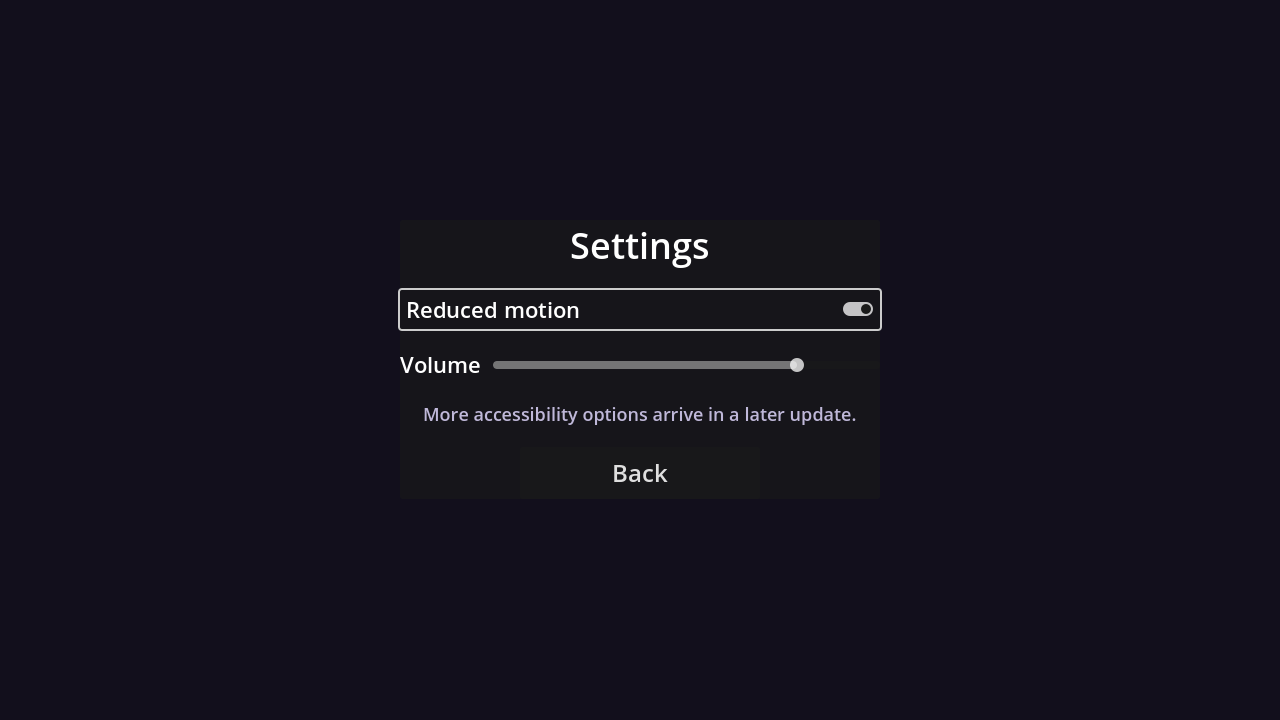
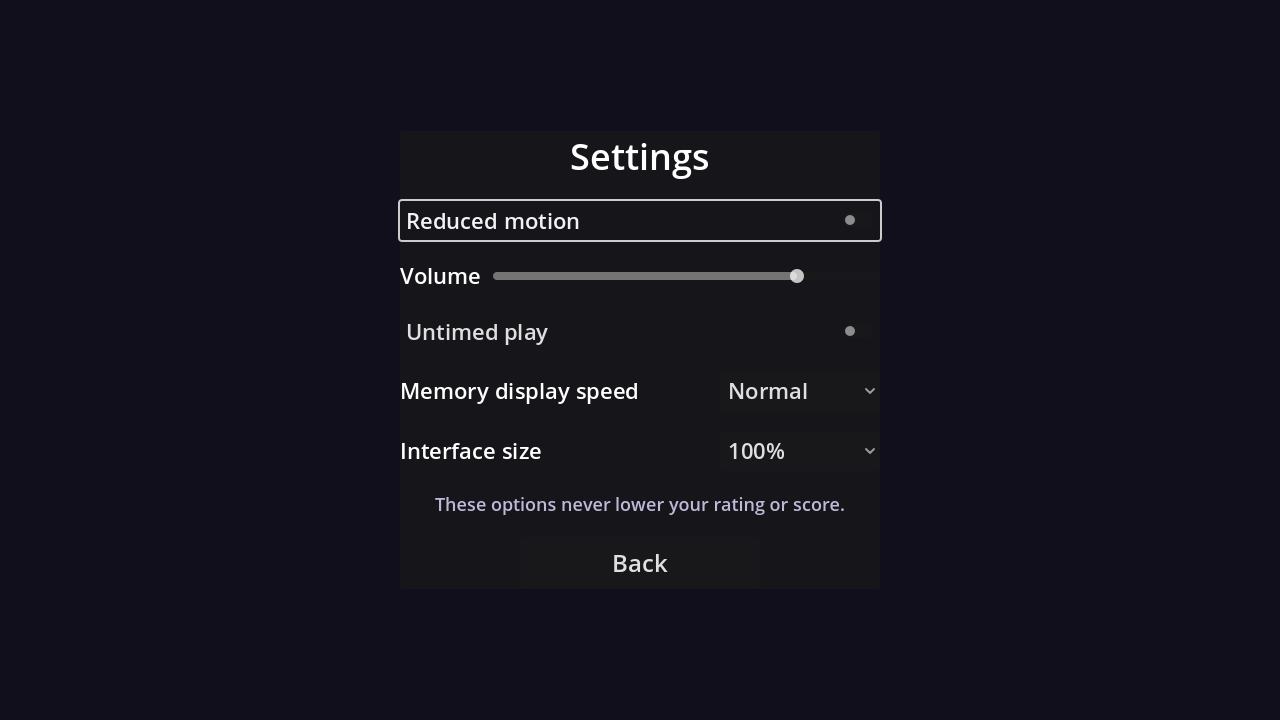
task(8.2): add accessibility timing, motion, scale and input options
Settings gain untimed play, slower memory display (up to 3x) and
interface size (up to 150%); reduced motion also skips room fades. Any
timing accommodation is passed to the puzzle host and flags the attempt
so skill and score ignore timing rather than lowering. Settings are
validated and snapped on load and stay apart from skill state. Adds a
pause action (P / Start) and controller bindings for accept and back.

diff --git a/docs/PROJECT_PHASES_AND_TASKS.md b/docs/PROJECT_PHASES_AND_TASKS.md
@@ -2351,7 +2351,7 @@ One command, `tools/validate.sh`: headless boot, puzzle bank validator, all test
 
 ### Task 8.2: Accessibility: Timer, Motion, Readability and Input Options
 
-**Status:** `[ ]` Not Started
+**Status:** `[x]` Completed
 
 **Purpose**  
 Advance Phase 8 while keeping the game playable, deterministic where required, and narrowly scoped to this task.
@@ -2368,13 +2368,16 @@ Advance Phase 8 while keeping the game playable, deterministic where required, a
 - Confirm the core offline game loop still starts when this task touches runtime code.
 
 **Definition of Done**
-- [ ] Task-specific implementation exists.
-- [ ] Relevant automated/headless validation passes.
-- [ ] No new runtime errors in the affected playable flow.
-- [ ] Documentation and task status are synchronized.
-- [ ] A dedicated `task(8.2): ...` Git commit exists.
-- [ ] The commit is pushed to GitHub and upstream verification succeeds when `origin` is configured.
-- [ ] Scope does not spill into the next task.
+- [x] Task-specific implementation exists.
+- [x] Relevant automated/headless validation passes.
+- [x] No new runtime errors in the affected playable flow.
+- [x] Documentation and task status are synchronized.
+- [x] A dedicated `task(8.2): ...` Git commit exists.
+- [x] The commit is pushed to GitHub and upstream verification succeeds when `origin` is configured.
+- [x] Scope does not spill into the next task.
+
+**Implementation Notes**
+Settings menu adds untimed play, memory display speed (1x/1.5x/2x/3x), interface size (100/125/150%, root content scale) next to reduced motion and volume; reduced motion now also makes room transitions instant. `game/scripts/settings/accessibility.gd` owns allowed values, sanitizing and the puzzle host options; the dungeon passes `timing_scale` and `timing_accommodation_active`, so any timing accommodation neutralizes timing in skill and score instead of lowering them. Settings stay in the profile `settings` section, validated on load and never read by the skill model. Controller: `pause` action (P / Start) and A/B bindings for ui_accept/ui_cancel. Validation: `tools/validate.sh` OK (373 passed; adds tests/unit/test_settings.gd, accommodation-never-lower check in test_performance_event.gd, menu focus/persistence and dungeon-to-host option tests). Note: naming the new test file test_accessibility.gd made Godot report script resources still in use at exit (static test caches unloaded in a different order), so it is test_settings.gd.
 
 ---
 

diff --git a/README.md b/README.md
@@ -80,7 +80,7 @@ Open the next room ← Reward score & XP ← Pick the next puzzle in the target 
     <td align="center"><img src="docs/images/run_summary.png" alt="Run summary"><br><sub><b>Run summary</b>: friendly per-family trends, no labels</sub></td>
   </tr>
   <tr>
-    <td align="center"><img src="docs/images/settings.png" alt="Settings"><br><sub><b>Settings</b>: reduced motion and master volume</sub></td>
+    <td align="center"><img src="docs/images/settings.png" alt="Settings"><br><sub><b>Settings</b>: reduced motion, untimed play, memory speed, interface size, volume</sub></td>
     <td align="center"><sub>All screenshots are captured from the real build with<br><code>tools/capture_screenshots.gd</code></sub></td>
   </tr>
 </table>
@@ -114,7 +114,8 @@ Open the next room ← Reward score & XP ← Pick the next puzzle in the target 
 - **Feedback banners** with symbols (✓ ↻ ✗ ★ ◆); they never reveal answers.
 
 ### ♿ Accessibility and safety
-- **Reduced motion** and **master volume** settings.
+- **Reduced motion**, **untimed play**, **slower memory timing** (up to 3x), **interface size** (up to 150%) and **master volume** settings.
+- Full **keyboard and controller** navigation (D-pad / A / B, Start pauses).
 - **Accessibility-safe timing**: when a timing accommodation is on, slower play never lowers your inferred skill or your score.
 - **No colour-only information**: every symbol is a distinct shape.
 - **Keyboard and controller** navigation from the first frame.

diff --git a/docs/GAME_DESIGN.md b/docs/GAME_DESIGN.md
@@ -102,6 +102,15 @@ Plan for:
 - reduced-motion option,
 - keyboard navigation where possible.
 
+Implemented settings (Settings menu, `game/scripts/settings/accessibility.gd`):
+- **Reduced motion**: no pulses, count-ups or banner motion; room transitions cut instead of fading.
+- **Untimed play**: response time is ignored for skill and score.
+- **Memory display speed**: 1x, 1.5x, 2x or 3x show/conceal time. Puzzle identity and correctness are unchanged.
+- **Interface size**: 100%, 125% or 150% scaling of the whole window content.
+- **Keyboard and controller**: every menu, setting and puzzle is reachable with arrows/D-pad, accept (Enter/Space/A) and back (Escape/B); P or Start pauses.
+
+Any timing accommodation (untimed play or slower memory timing) sets `timing_accommodation_active` on the attempt, so the skill model and scoring neutralize timing instead of reading slower play as lower skill. Settings live in the profile's `settings` section, are validated on load (wrong types and out-of-range values fall back or snap to an offered value), and are never read by the skill model.
+
 ## 10. Adaptive Experience Design
 
 The dungeon should adapt invisibly enough that the player experiences a coherent world rather than a visible difficulty algorithm.

diff --git a/docs/TASKS.md b/docs/TASKS.md
@@ -99,7 +99,7 @@ A completed task should record its commit hash and push status.
 ## Phase 8 — Polish, Accessibility, CI/CD & Release
 
 - [x] **Task 8.1** — Godot Headless Validation Test Suite — Commit: `task(8.1)` — GitHub: `pushed to origin/main`
-- [ ] **Task 8.2** — Accessibility: Timer, Motion, Readability and Input Options — Commit: `—` — GitHub: `—`
+- [x] **Task 8.2** — Accessibility: Timer, Motion, Readability and Input Options — Commit: `task(8.2)` — GitHub: `pushed to origin/main`
 - [ ] **Task 8.3** — Visual Theme and Placeholder Asset Cleanup — Commit: `—` — GitHub: `—`
 - [ ] **Task 8.4** — Performance and Scene-Load Profiling — Commit: `—` — GitHub: `—`
 - [ ] **Task 8.5** — Desktop Export Presets — Commit: `—` — GitHub: `—`
